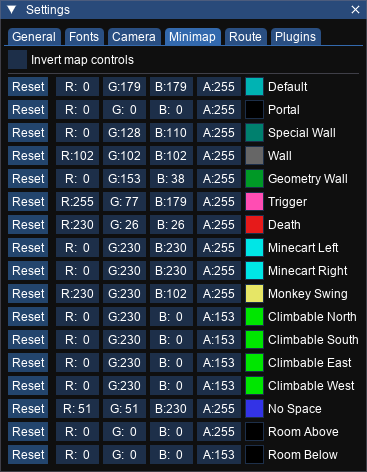
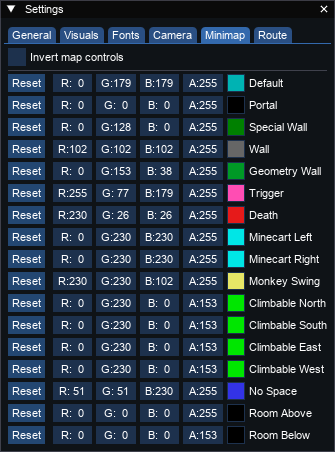
Update version to 2.7.7
Update a few docs and the version number
Closes #1463

Changed region(s): [[0.0, 0.0, 1.0, 0.9912]]

diff --git a/trview.common/Version.hpp b/trview.common/Version.hpp
@@ -4,6 +4,6 @@ namespace trview
 {
     constexpr std::string version()
     {
-        return "2.7.6";
+        return "2.7.7";
     }
 }

diff --git a/doc/windows.md b/doc/windows.md
@@ -1,6 +1,8 @@
 # Windows
 Aside from the [main 3D view](viewer.md) there are specialised windows for different elements of the level and route. These can be rearranged and dragged outside of the main view if desired.
 
+Tables in most windows can have their column order rearranged.
+
 ## [Camera/Sink](camerasinkwindow.md)
 Cameras and Sinks (underwater currents) share a data structure in the level so they share a window.
 ## [Items](itemswindow.md)

diff --git a/doc/settings.md b/doc/settings.md
@@ -5,6 +5,9 @@ The settings window allows you to change how parts of trview behave.
 ## General
 ![Settings - General](settings_general.png)
 
+## Visuals
+![Settings - Visuals](settings_visuals.png)
+
 ## Fonts
 ![Settings - Fonts](settings_fonts.png)
 
